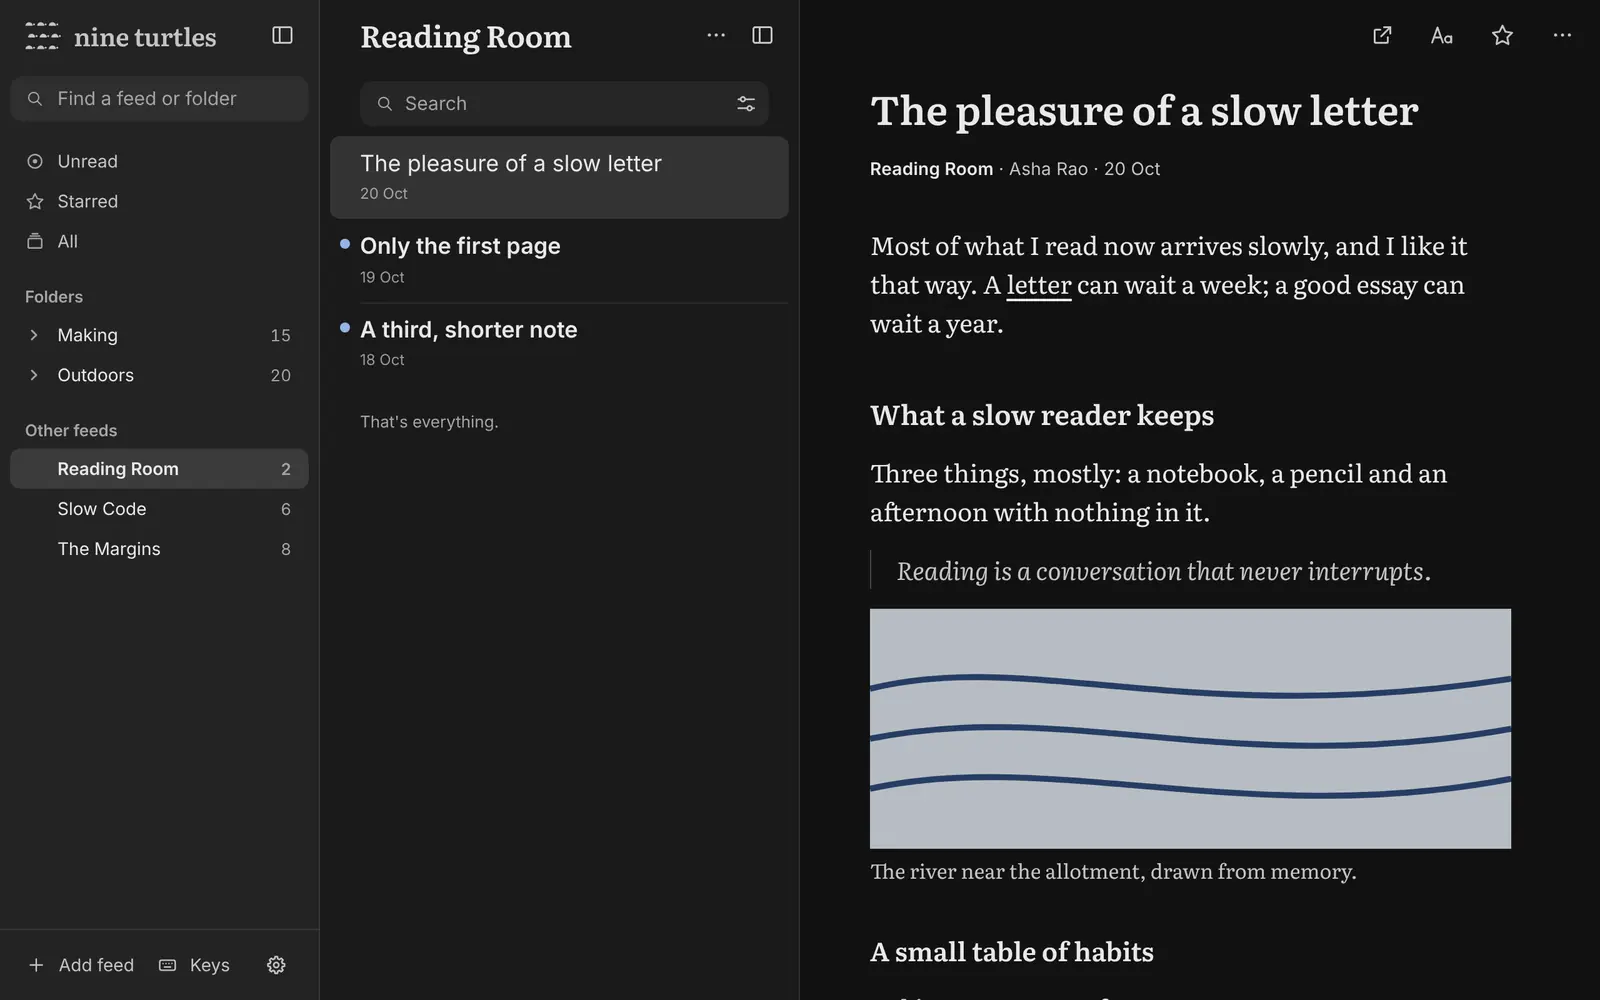
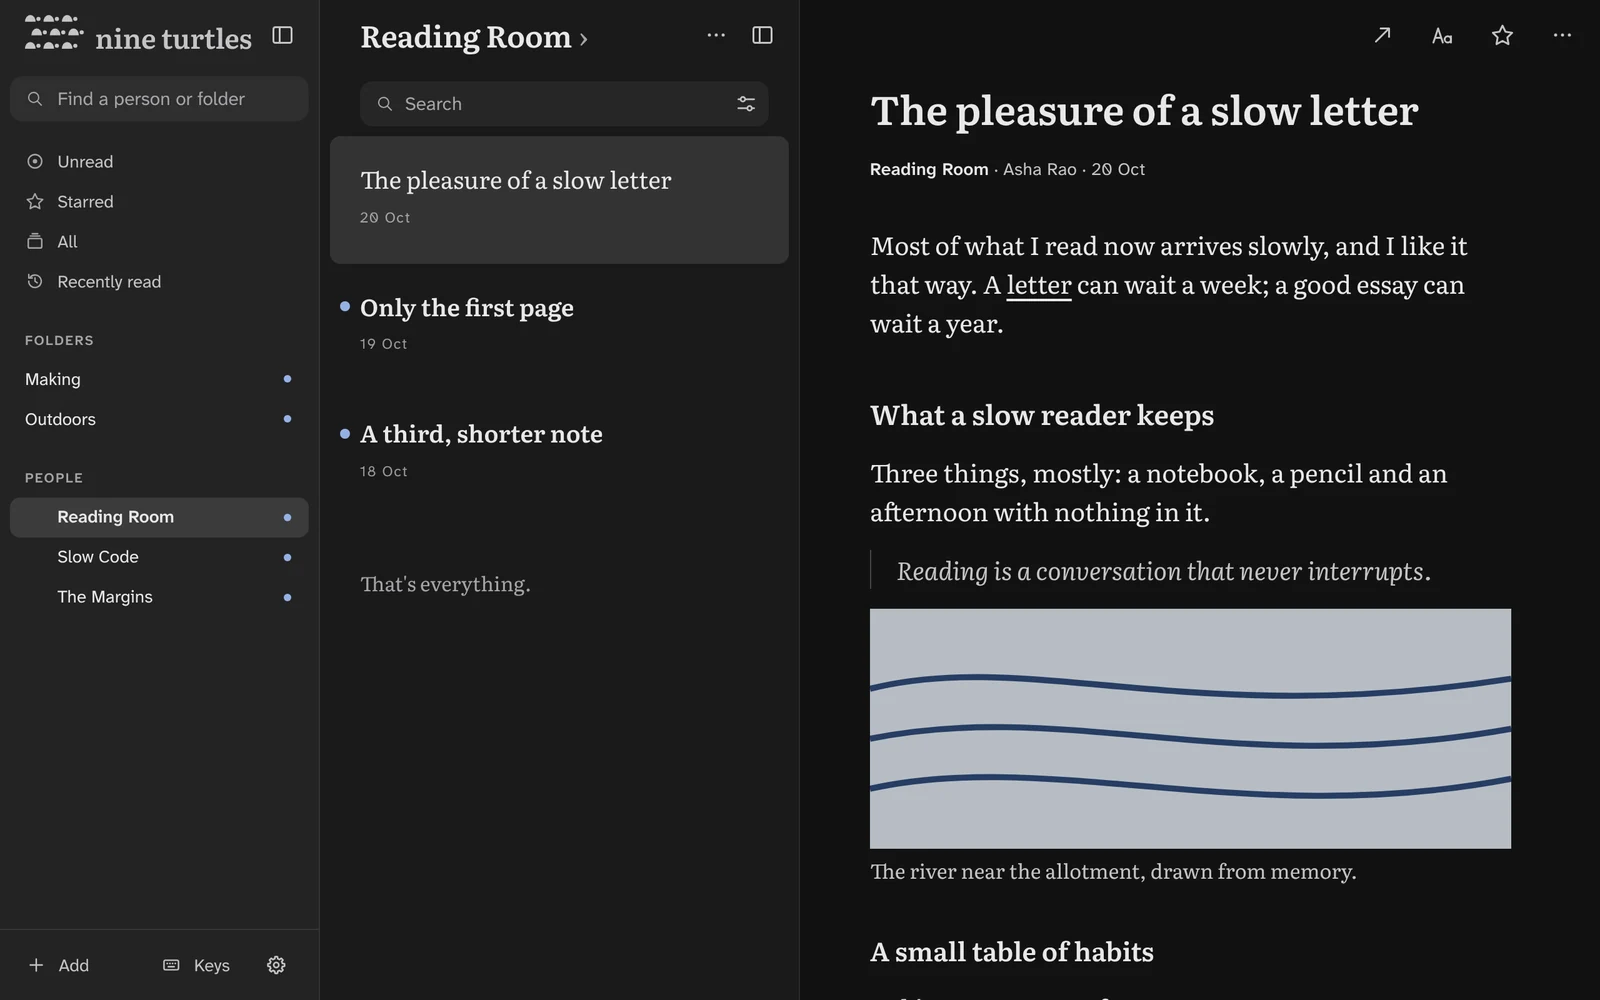
Website: say only what's true today
Retake the front page's app picture from today's app, replace 'no AI in
between' with the new line, drop Apple Books from About, fix the Questions
answers (sign-up, notifications and the weekly email, newsletters and
podcasts), hide the blog, and stop advertising Reeder and NetNewsWire
syncing (its Help page stays).

Claude-Session: https://claude.ai/code/session_017gSrXxQj9FWzaqzeRTjMV8

diff --git a/website/eleventy.config.js b/website/eleventy.config.js
@@ -19,6 +19,11 @@ export default function (eleventyConfig) {
   const finder = readFileSync(new URL("./src/feed-finder.js", import.meta.url));
   eleventyConfig.addGlobalData("finderVersion", createHash("sha256").update(finder).digest("hex").slice(0, 10));
 
+  // The blog is hidden until Rohit writes in it at least once a month (the
+  // owner's review, 3 November 2026). Its posts stay here, ready to return:
+  // remove this line, and the blog's links in base.njk, to bring it back.
+  eleventyConfig.ignores.add("src/blog/**");
+
   eleventyConfig.addPassthroughCopy({ "src/style.css": "style.css" });
   eleventyConfig.addPassthroughCopy({ "src/feed-finder.js": "feed-finder.js" });
   eleventyConfig.addPassthroughCopy({ "src/images": "images" });

diff --git a/docs/DESIGN.md b/docs/DESIGN.md
@@ -195,7 +195,7 @@ The philosophy applied. The principle is noted where it isn't obvious. The brand
 - **Help** (decision 0157, SPEC section 40): the website's column and type. The index is a book's table of contents: each group a heading (20px) over a plain list of links, a hairline above and between the rows, each row 48px tall, no boxes or tiles. A page has "Help › group" in the small muted line above its title, "Last updated" under it, and ends with "Related:" in the interface face under a hairline. Keys are drawn as small keys: a 1px edge, 4px corners, on the page's faint tone. Where you are in the band is Help, for the index and every page.
 - **The About page's end:** the logo's turtle walks in single file, nine times: seven together and, a few steps behind, two more, in the second ink, over one line in the reading face: "Some of us like to read slowly. That's the idea." Two stay behind together, not one, so nobody is left alone. Drawn still, as everything is; screen readers skip the drawing and read the line. It lived in every page's footer until the owner moved it here (decision 0102).
 - **"Wrong turn?", the 404 page** (decisions 0102 and 0142), the same in the app and on the website: on one left edge, as the home page is, in a column 616px wide (the turtles' row), its top 192px down (96px on a phone). A small "404 error" (sentence case, small size, medium weight, muted), then, 16px under it, nine of the logo's turtles in a row in the text color, big enough to see at once (up to 56px each, still one line on a small phone): one at the back facing the other way, a step apart, and eight walking on. Then, 48px down, "Wrong turn?" as the page's title in the serif at its page's title size (display in the app, the website's page title there), 20px under it two short lines in the reading face (large size, with the article text's 1.6 leading, the second ink, 16px apart; "There's nothing at this address…" and "If a link in this app / on this site brought you here, tell me which one and I'll fix it."), and 24px under them "— Rohit" in the text color. The parts group by their gaps rather than sitting evenly apart. The app adds its main action, "Back to your reading", 40px under the signature. Drawn still; screen readers skip the turtles; the drawing itself never changes. Where else the turtles may appear: [`BRAND.md`](BRAND.md) → "The turtles' only job".
-- **The website's band** (decision 0153, "G set as C"): on a computer (wider than 1100px) the app's grey sidebar, 248px wide, fixed on the left, in the sidebar's grey (`#EFEFF1` by day, `#232323` by night): the logo and name, then the website's places in quiet text (How it works, which opens the tour; Help; Blog; Open the app), and on the front page, under a hairline, what's on the page. The text column starts 128px right of the band, on one left edge with the footer. On a tablet or phone the band is a grey bar across the top, the name on the left and the places beside or under it; "On this page" is left out there. Where you are is the place's name in the full ink, semibold and underlined, not the app's grey pill: on the website the pill read as a row of buttons. Pricing, About, Contact, FAQ, "New to feeds?" and the feed finder live in the footer, with Help; the tour links "New to feeds?".
+- **The website's band** (decision 0153, "G set as C"): on a computer (wider than 1100px) the app's grey sidebar, 248px wide, fixed on the left, in the sidebar's grey (`#EFEFF1` by day, `#232323` by night): the logo and name, then the website's places in quiet text (How it works, which opens the tour; Help; Open the app; the blog is hidden until Rohit writes in it monthly), and on the front page, under a hairline, what's on the page. The text column starts 128px right of the band, on one left edge with the footer. On a tablet or phone the band is a grey bar across the top, the name on the left and the places beside or under it; "On this page" is left out there. Where you are is the place's name in the full ink, semibold and underlined, not the app's grey pill: on the website the pill read as a row of buttons. Pricing, About, Contact, FAQ, "New to feeds?" and the feed finder live in the footer, with Help; the tour links "New to feeds?".
 - **The website's front page** (decision 0153): one text size, 20px on a 32px line, in a column 488px wide. "Read people. Write back." as the page's title in the interface face, semibold, at the same 20px, 192px from the top on a computer (128px on a tablet, 64px on a phone), the settled paragraph under it, then "Open the app", the one solid button in the text color. The app's picture 128px down, up to 800px wide from the column's edge. Then the six points from the positioning, each a semibold line in the interface face and one line in the reading face, 64px apart; "Open the app" again; the footer. Copy word for word from `RnD/positioning.md`; the last point's line is the Contact page's own ("Write to … Every message is read by a person, not a bot.").
 - **Signature:** what makes nine turtles recognisable is on the brand sheet, [`BRAND.md`](BRAND.md). (The accent never marks where you are: that is the plain grey pill, decision 0057.)
 

diff --git a/website/src/index.md b/website/src/index.md
@@ -15,12 +15,12 @@ contents:
 
 <h1 class="lead">Read people. Write back.</h1>
 
-<p>There are people online you'd like to know. Most of them have a blog, a newsletter or a channel. nine turtles keeps them in one quiet place, helps you write back to them, and ends when you've read what's there. No algorithm, no likes, no AI in between. Built on RSS, the open standard, so your list is always yours.</p>
+<p>There are people online you'd like to know. Most of them have a blog, a newsletter or a channel. nine turtles keeps them in one quiet place, helps you write back to them, and ends when you've read what's there. No algorithm, and no AI rewriting or ranking what people write. Built on RSS, the open standard, so your list is always yours.</p>
 
 <p><a class="button" href="{{ site.app }}">Open the app</a></p>
 
 <figure class="shot">
-  <img class="day" src="/images/app-light.webp" width="1600" height="1000" alt="nine turtles on a computer, by day. On the left, a sidebar with Unread, Starred and All, two folders and three blogs. In the middle, the blog Reading Room's three articles, the last line saying That's everything. On the right, the article The pleasure of a slow letter, by Asha Rao, set in a calm serif on white paper, with a quotation and a drawing of a river." />
+  <img class="day" src="/images/app-light.webp" width="1600" height="1000" alt="nine turtles on a computer, by day. On the left, a sidebar with Unread, Starred, All and Recently read, two folders and three people. In the middle, Reading Room's three articles, the last line saying That's everything. On the right, the article The pleasure of a slow letter, by Asha Rao, set in a calm serif on white paper, with a quotation and a drawing of a river." />
   <img class="night" src="/images/app-dark.webp" width="1600" height="1000" alt="nine turtles on a computer, by night: the same sidebar, list and article, in light text on near-black." />
   <figcaption>nine turtles on a computer, following made-up blogs for this picture.</figcaption>
 </figure>

diff --git a/website/src/faq.md b/website/src/faq.md
@@ -13,8 +13,9 @@ permalink: /faq/
 
 ## Can I use nine turtles today?
 
-Not yet for everyone. A version you can simply sign up for is planned, and
-the [blog](/blog/) will say when it opens.
+Yes. Anyone can make an account with an email address and a password.
+nine turtles first emails you a link to confirm the address.
+[Open the app]({{ site.app }}).
 
 ## What will it cost?
 
@@ -34,20 +35,16 @@ were published.
 
 ## Does it send notifications?
 
-Never. nine turtles doesn't try to bring you back. New articles wait
-quietly for the next time you open it.
+No. nine turtles doesn't try to bring you back. New articles wait
+quietly for the next time you open it. The one exception is a
+[weekly email](/help/weekly-email/), if you choose it in Settings: plain
+text, and off in one press.
 
 ## Can I bring my feeds from another reader?
 
 Yes. Almost every feed reader can export what you follow as an OPML file,
 and nine turtles imports it in one go, folders and all. It exports the same
 way, so you can always leave.
-
-## Does it work with Reeder or NetNewsWire?
-
-Yes. They can use nine turtles to keep your feeds, read articles and stars
-in step, through the "Google Reader" connection that FreshRSS and Miniflux
-also offer.
 
 ## Why do some articles show only a summary?
 
@@ -64,10 +61,11 @@ down whenever a site asks.
 
 ## Can I read newsletters or podcasts?
 
-Newsletters that publish a feed (most on Substack and Ghost do) work like
-any other site. nine turtles doesn't offer an email address for
-newsletters. Podcasts appear as a link to the episode, and YouTube videos
-play in YouTube's own player.
+Yes. nine turtles gives you a private email address for newsletters, so
+each one arrives here instead of your inbox
+([how](/help/newsletters/)). Podcast episodes play right in nine turtles,
+from the podcast's own address ([how](/help/listen-to-podcasts/)), and
+YouTube videos play in YouTube's own player.
 
 ## Does it work on my phone?
 

diff --git a/docs/operations/website-and-domain.md b/docs/operations/website-and-domain.md
@@ -132,7 +132,10 @@ from hello@ too, that needs an email service, which is still to be chosen
 Every page is a plain text file in `website/src/`: the home page
 (`index.md`), the tour, "New to feeds?", questions (`faq.md`), about,
 contact, accessibility, privacy, terms, pricing and refunds, and the blog's posts in
-`website/src/blog/`, one file each. The Help pages are in
+`website/src/blog/`, one file each. The blog is hidden for now (one line in
+`website/eleventy.config.js` leaves it out of the build, and its links are
+gone from the band and footer) until Rohit writes in it at least once a
+month; its posts stay, ready to return. The Help pages are in
 `website/src/help/`, one file each, grouped by the list in
 `website/src/_data/helpGroups.json` (SPEC section 40). The contact address, the app's address
 and the code's address are written once, in `website/src/_data/site.json`.

diff --git a/website/src/tour.md b/website/src/tour.md
@@ -1,7 +1,7 @@
 ---
 layout: page.njk
 title: A tour
-description: Everything nine turtles does, from reading and search to keyboard shortcuts, phones, and syncing with other apps.
+description: Everything nine turtles does, from reading and search to keyboard shortcuts and phones.
 permalink: /tour/
 ---
 
@@ -103,12 +103,6 @@ Every action works with Tab, Enter and Escape. On top of that, single keys
 move you through your reading: `j` and `k` for the next and previous
 article, `s` to star, `m` to mark unread, `v` to open the original, `/` to
 search. Press `?` at any time to see them all.
-
-## With the apps you already use
-
-If you like reading in Reeder or NetNewsWire, they can use nine turtles to
-keep your feeds, folders, read articles and stars in step, through the same
-"Google Reader" connection that FreshRSS and Miniflux offer.
 
 ## Your data stays yours
 

diff --git a/website/src/about.md b/website/src/about.md
@@ -39,8 +39,7 @@ everything else and are never traded away:
 
 After those: reading comes first, calm over engagement, clear at a glance,
 a slow app with a fast interface, nothing moves unless you move it, power
-that's hidden but never missing, and respect for your time. Its look takes
-its lead from Apple Books.
+that's hidden but never missing, and respect for your time.
 
 ## The name
 
@@ -52,8 +51,7 @@ reading.
 
 nine turtles is made by [{{ site.maker }}]({{ site.makerSite }}), who wanted
 a calmer way to read the web. It started as
-"slowfeed" on 22 October 2026 and took its own name two days later. The
-[blog](/blog/) follows along.
+"slowfeed" on 22 October 2026 and took its own name two days later.
 
 Questions, ideas or problems are always welcome: [get in touch](/contact/).
 

diff --git a/docs/spec/40-help.md b/docs/spec/40-help.md
@@ -20,8 +20,8 @@ Decision 0157.*
   not right, or not what you needed? Tell me and I'll fix it." Buttons and
   places are named in bold, exactly as the app names them; keys are drawn as
   keys. No screenshots.
-- **Where it's linked from:** the website's band (How it works, Help, Blog,
-  Open the app) and its footer; the foot of Settings ("Help", opening a new
+- **Where it's linked from:** the website's band (How it works, Help, Open
+  the app) and its footer; the foot of Settings ("Help", opening a new
   tab); the keyboard shortcuts sheet's foot ("Help", to the keys page).
 - **`/docs`** sends readers on to `/help`.
 - **Each page names the SPEC section it explains** in its front matter

diff --git a/docs/RnD/positioning.md b/docs/RnD/positioning.md
@@ -18,8 +18,8 @@ The words will change; the shape is decided.
 > There are people online you'd like to know. Most of them have a blog, a
 > newsletter or a channel. nine turtles keeps them in one quiet place,
 > helps you write back to them, and ends when you've read what's there.
-> No algorithm, no likes, no AI in between. Built on RSS, the open
-> standard, so your list is always yours.
+> No algorithm, and no AI rewriting or ranking what people write. Built
+> on RSS, the open standard, so your list is always yours.
 
 - **Headline:** "Read people. Write back." (Rohit, 2 November 2026; it
   replaced "The good part of the internet, in one quiet place."). The

diff --git a/docs/changes/2026-11-03-website-made-true.md b/docs/changes/2026-11-03-website-made-true.md
@@ -1,0 +1,7 @@
+## 3 November 2026: The website says only what's true
+
+- The front page's picture is retaken from the app as it is today.
+- The front page now says "No algorithm, and no AI rewriting or ranking what people write."
+- About no longer says the look takes its lead from Apple Books.
+- Questions now say anyone can sign up, that the weekly email is the one exception to "no notifications", and that newsletters and podcasts work inside nine turtles.
+- The blog is hidden until it's written in monthly, and syncing with Reeder or NetNewsWire is no longer advertised (its Help page stays).
